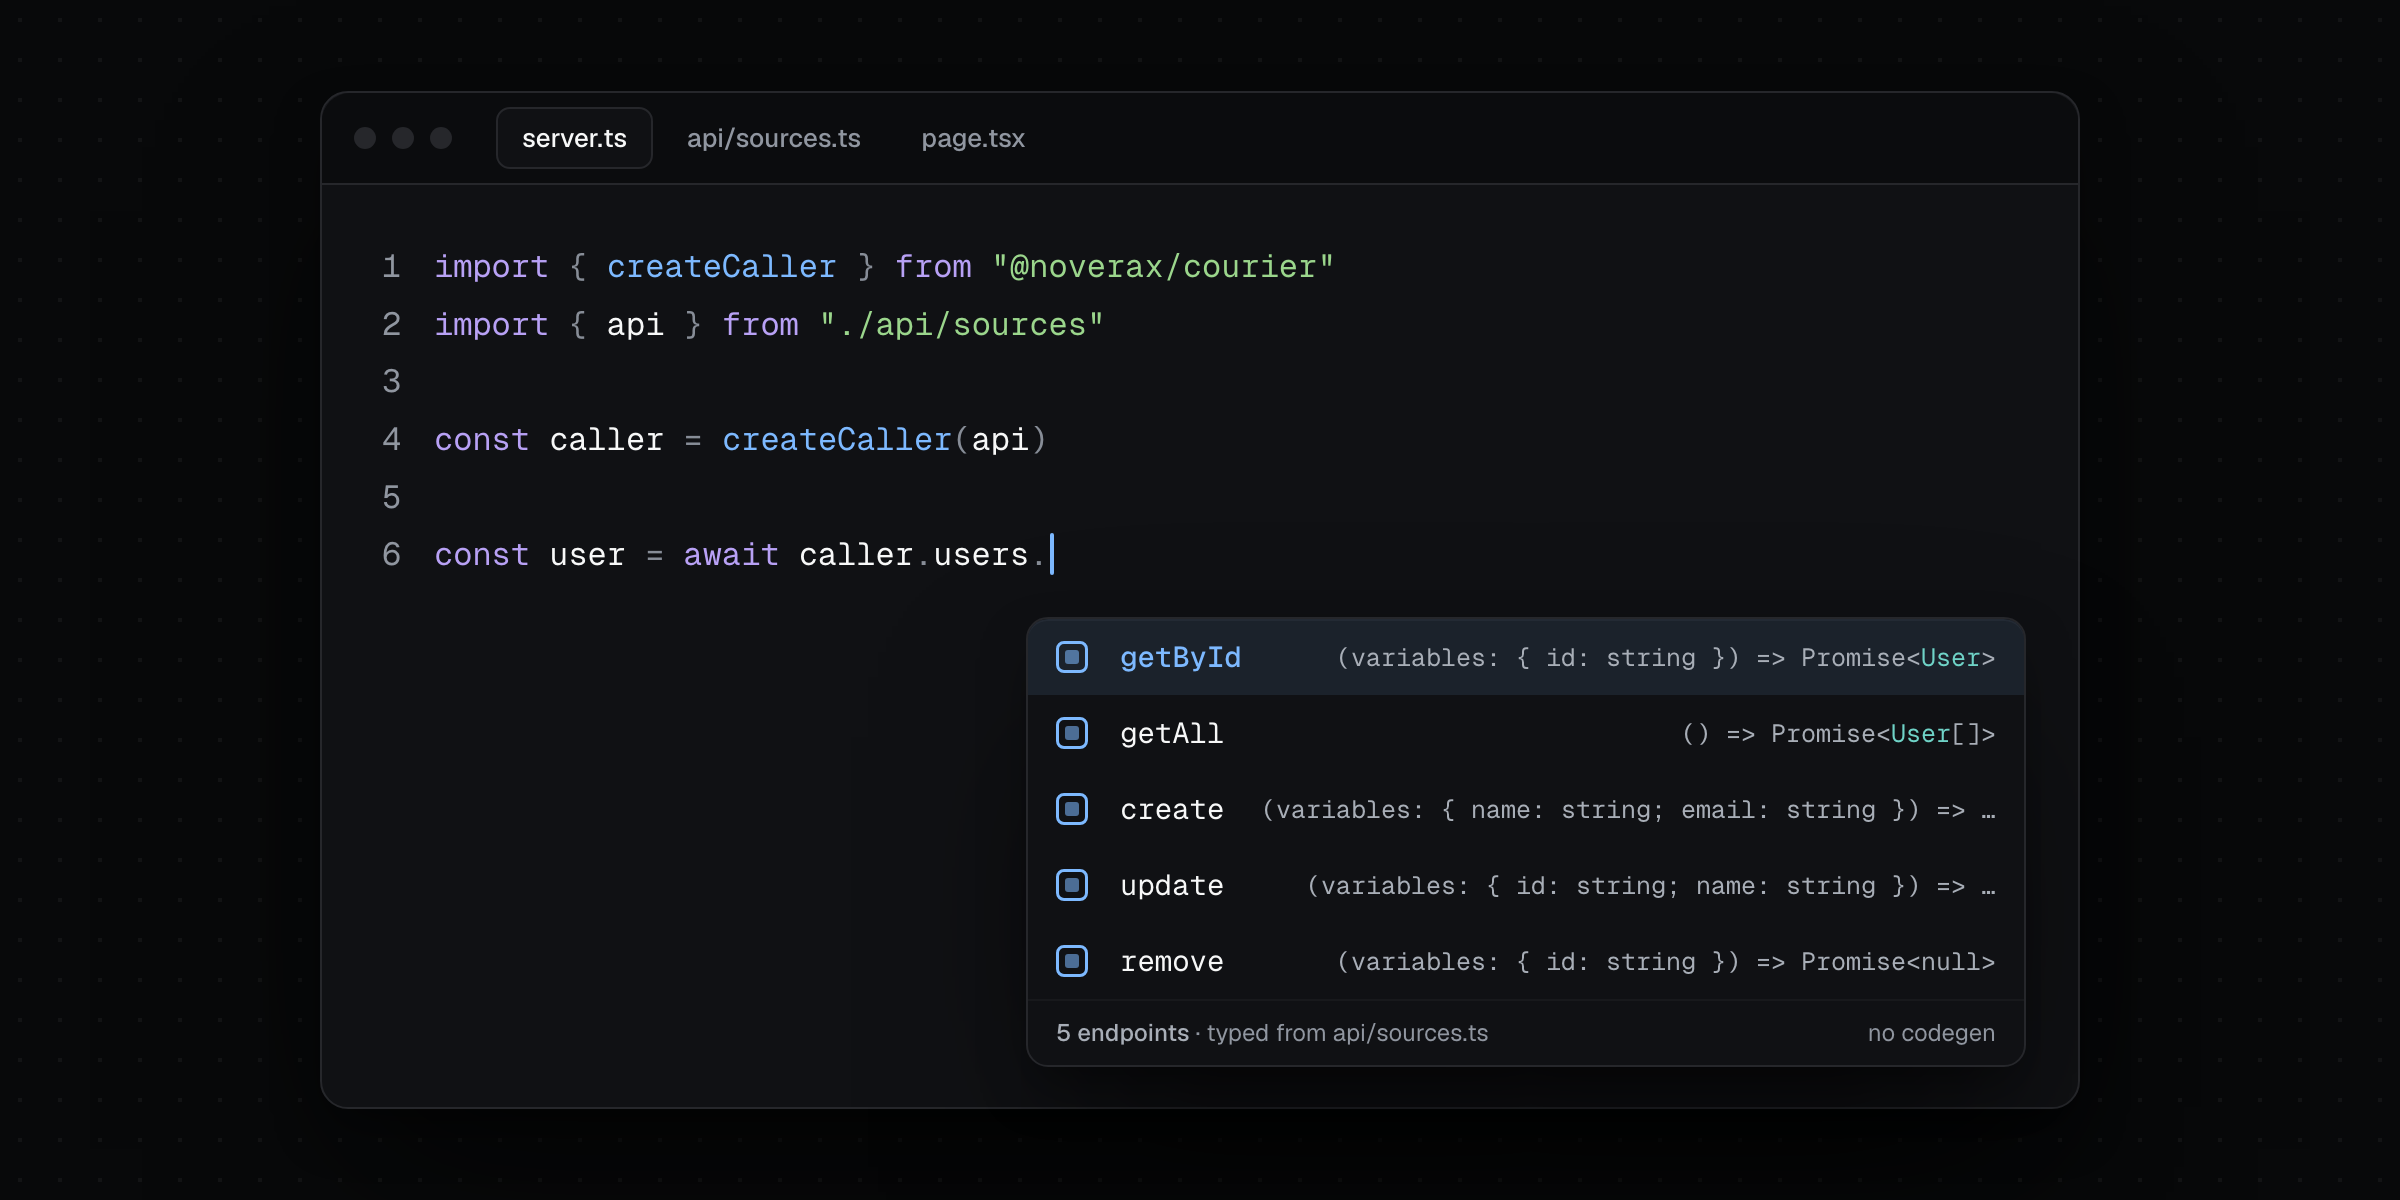
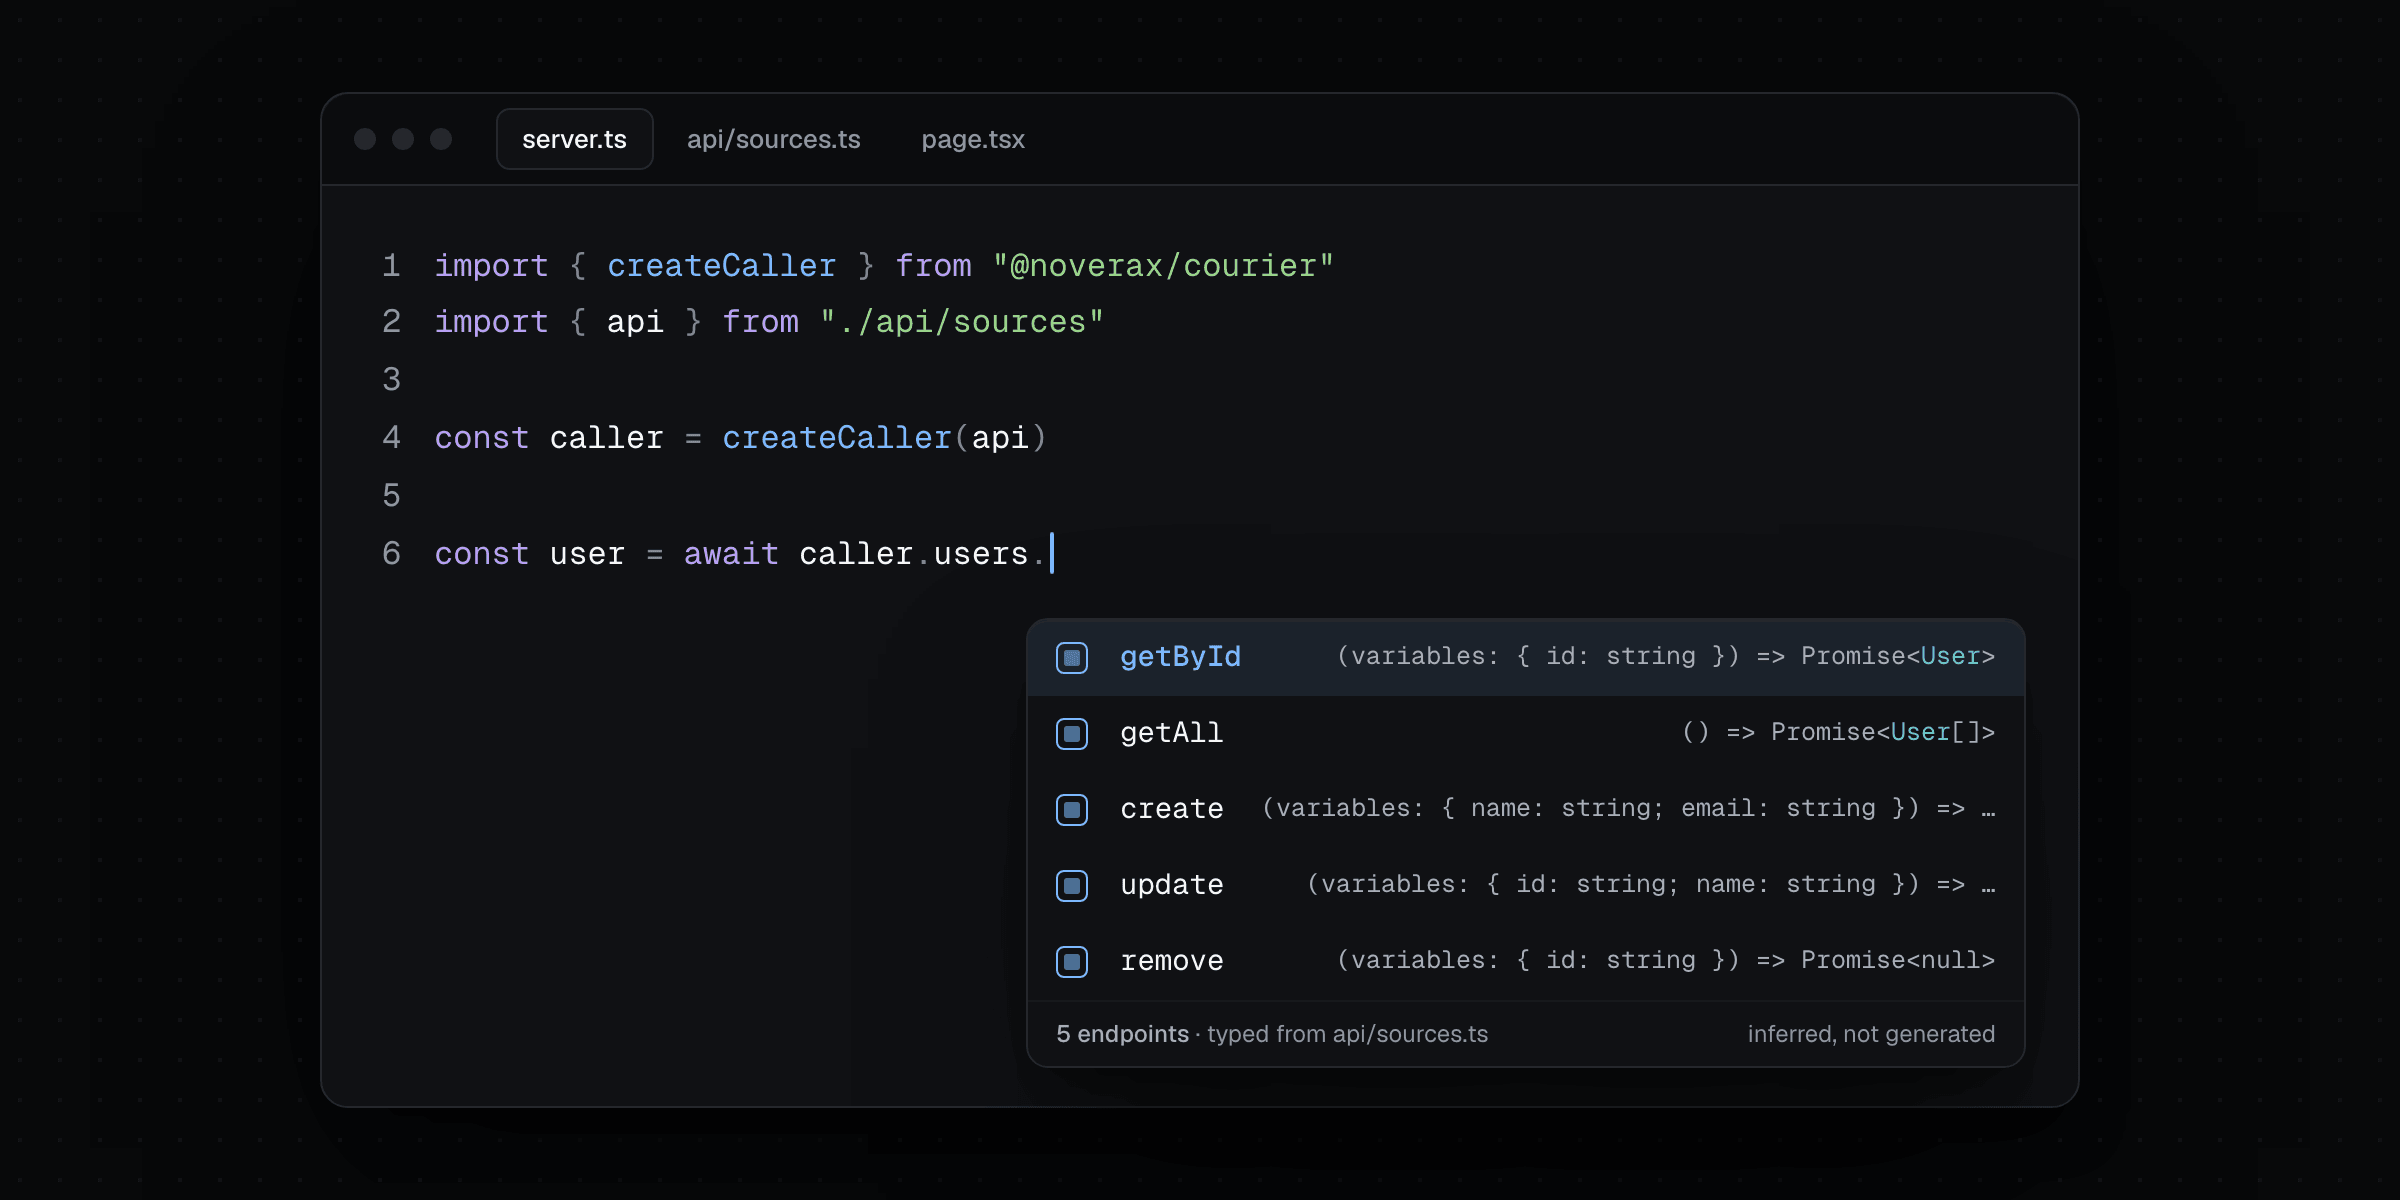
docs: 📝 say types are inferred, never generated
The landing page, the README, the introduction, Why Courier and the
images said "no codegen". In proxy mode Courier now writes one file,
courier.routes.ts, so the claim is no longer true as it stood.

What stays true is said instead: the types are inferred from the
definition, never generated, and no step runs before you compile. The
introduction and Why Courier add the one file proxy mode keeps, the
list of what a page may call, which a review reads and CI checks. The
comparison row asks for no generated types, the hero's status line
counts generated types, and Why Courier no longer counts tRPC among the
tools that generate code, which it does not.

diff --git a/.github/assets/src/hero.html b/.github/assets/src/hero.html
@@ -73,7 +73,7 @@
     <div class="item"><span class="glyph"></span><span class="name">create</span><span class="sig">(variables: { name: string; email: string }) =&gt; …</span></div>
     <div class="item"><span class="glyph"></span><span class="name">update</span><span class="sig">(variables: { id: string; name: string }) =&gt; …</span></div>
     <div class="item"><span class="glyph"></span><span class="name">remove</span><span class="sig">(variables: { id: string }) =&gt; Promise&lt;null&gt;</span></div>
-    <div class="foot"><span><b>5 endpoints</b> · typed from api/sources.ts</span><span>no codegen</span></div>
+    <div class="foot"><span><b>5 endpoints</b> · typed from api/sources.ts</span><span>inferred, not generated</span></div>
   </div>
 </div>
 <script>

diff --git a/.github/assets/src/architecture.html b/.github/assets/src/architecture.html
@@ -82,7 +82,7 @@
     </div>
     <div class="sub">one definition · api/sources.ts</div>
     <div class="rows" style="gap: 10px">
-      <div class="row"><span class="tick"></span><span>Types inferred end to end, no codegen</span></div>
+      <div class="row"><span class="tick"></span><span>Types inferred end to end, never generated</span></div>
       <div class="row"><span class="tick"></span><span>Validation with any Standard Schema</span></div>
       <div class="row"><span class="tick"></span><span>Middleware — retry, auth, cache, logging</span></div>
       <div class="row"><span class="tick"></span><span>A proxy route that serves only the endpoints you mark .expose()</span></div>

diff --git a/docs/src/site/landing/hero/hero-section.tsx b/docs/src/site/landing/hero/hero-section.tsx
@@ -35,7 +35,7 @@ export async function HeroSection() {
             <CourierMark width={13} />
           </span>
           <span aria-hidden="true" className="h-3 w-px bg-line-strong" />
-          No codegen · no schema files · any backend
+          Inferred types · no schema files · any backend
         </div>
         <h1 className="mx-auto mt-6 mb-0 max-w-[17ch] animate-rise text-[clamp(38px,5.8vw,72px)] leading-[1.02] font-semibold tracking-[-0.042em]">
           Type-safe HTTP for <span className="text-brand">any</span> framework

diff --git a/docs/src/site/landing/hero/hero-editor.tsx b/docs/src/site/landing/hero/hero-editor.tsx
@@ -118,7 +118,7 @@ function HeroStatus({ refused }: { refused: boolean }) {
           : "✓ 0 errors · every call typed from api/sources.ts"}
       </span>
       <span className="ml-auto hidden whitespace-nowrap min-[640px]:inline">
-        0 generated files · inferred from 1 definition
+        0 generated types · inferred from 1 definition
       </span>
     </div>
   )

diff --git a/docs/src/app/opengraph-image.tsx b/docs/src/app/opengraph-image.tsx
@@ -48,7 +48,7 @@ export default async function OGImage() {
         <svg aria-hidden="true" viewBox="0 0 212 180" width={20} height={17}>
           <path fill="#7db9ff" d={MARK} />
         </svg>
-        No codegen · no schema files · any backend
+        Inferred types · no schema files · any backend
       </div>
       <div
         style={{

diff --git a/docs/src/site/landing/hero/hero-code.ts b/docs/src/site/landing/hero/hero-code.ts
@@ -41,7 +41,7 @@ export const SOURCES_FILE: readonly string[] = [
  * ```
  */
 export const CALLS_FILE: readonly string[] = [
-  "// anywhere in the app — nothing regenerated",
+  "// anywhere in the app — inferred, not generated",
   'const user = await caller.users.getById({ id: "5" })',
   "//    ^? User",
   "",

diff --git a/docs/src/site/landing/compare/compare-data.ts b/docs/src/site/landing/compare/compare-data.ts
@@ -68,7 +68,7 @@ export const COMPARE_ROWS: readonly CompareRow[] = [
     ],
   },
   {
-    need: "No code generation",
+    need: "No generated types",
     icon: FileCode,
     cells: [cell("yes", "None"), cell("yes", "None"), cell("yes", "None"), cell("yes", "None")],
   },

diff --git a/README.md b/README.md
@@ -16,7 +16,7 @@
     Every call, live, in Studio.
   </p>
 
-  <p><sub>No codegen&nbsp;&nbsp;·&nbsp;&nbsp;No schema files&nbsp;&nbsp;·&nbsp;&nbsp;Any backend that speaks HTTP</sub></p>
+  <p><sub>Types inferred, never generated&nbsp;&nbsp;·&nbsp;&nbsp;No schema files&nbsp;&nbsp;·&nbsp;&nbsp;Any backend that speaks HTTP</sub></p>
 
   <p>
     <a href="https://www.npmjs.com/package/@noverax/courier"><img alt="npm" src="https://img.shields.io/npm/v/@noverax/courier?style=flat-square&label=npm&labelColor=08090a&color=1c63d6" /></a>

diff --git a/packages/core/README.md b/packages/core/README.md
@@ -47,7 +47,7 @@ Most HTTP clients stop at “send a request, get a response”, and leave the ty
   <tr>
     <td width="33%" valign="top">
       <h4>One definition</h4>
-      Endpoints, groups and APIs in plain TypeScript. No codegen, no schema files — the types are inferred.
+      Endpoints, groups and APIs in plain TypeScript, their types inferred, never generated. No schema files.
     </td>
     <td width="33%" valign="top">
       <h4>Every runtime</h4>
